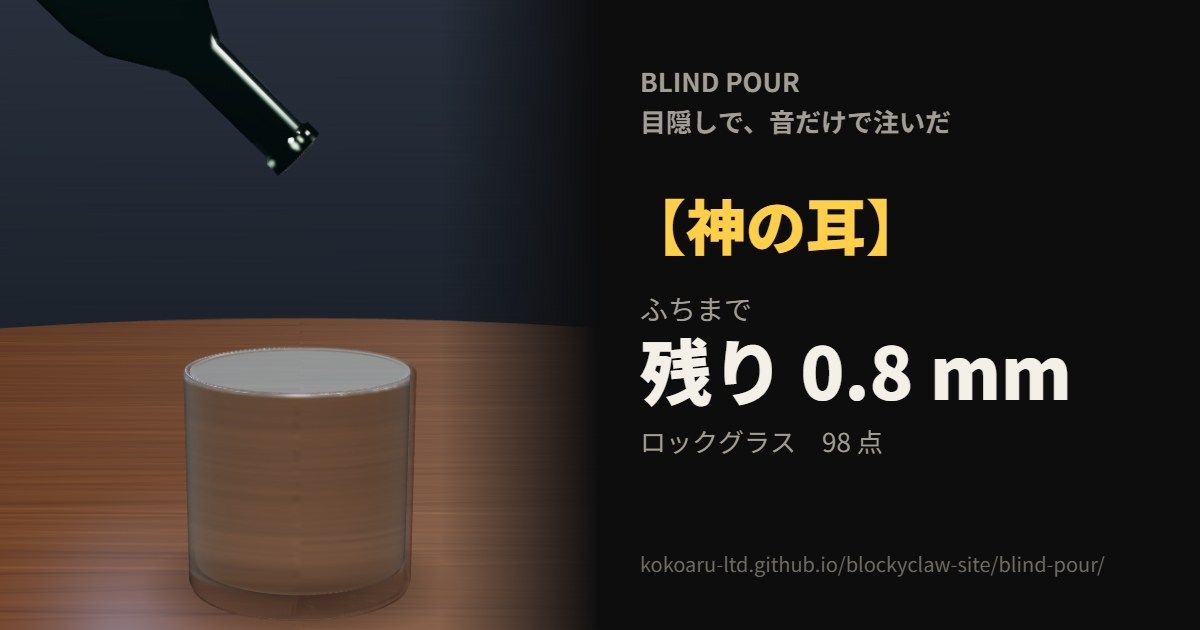
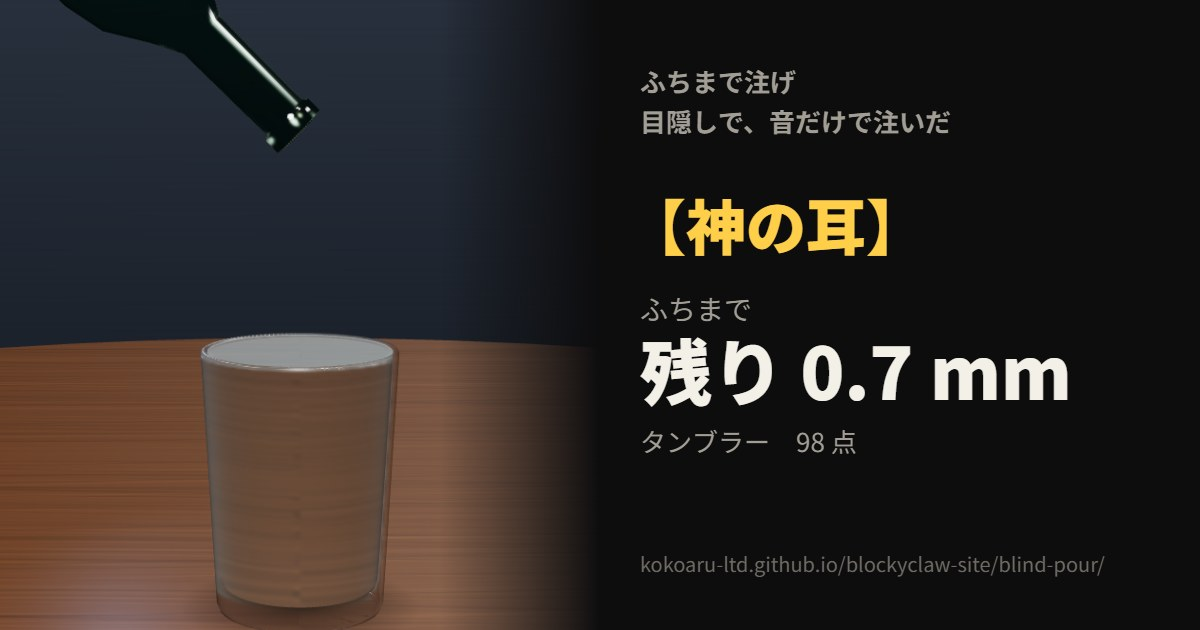
Rename BLIND POUR to ふちまで注げ (title, share text, hashtag, result image, thumbnail)

diff --git a/blind-pour/index.html b/blind-pour/index.html
@@ -3,9 +3,9 @@
 <head>
 <meta charset="utf-8">
 <meta name="viewport" content="width=device-width, initial-scale=1">
-<title>BLIND POUR | BLOCKYCLAW</title>
+<title>ふちまで注げ | BLOCKYCLAW</title>
 <meta name="description" content="目隠しで注げ。音だけを頼りに、グラスのふちぎりぎりを狙う。">
-<meta property="og:title" content="BLIND POUR">
+<meta property="og:title" content="ふちまで注げ">
 <meta property="og:description" content="目隠しで注げ。音だけを頼りに、グラスのふちぎりぎりを狙う。">
 <meta property="og:image" content="https://kokoaru-ltd.github.io/blockyclaw-site/thumbs/blind-pour.jpg">
 <meta name="twitter:card" content="summary_large_image">
@@ -57,7 +57,7 @@
 <body>
 <div id="hud">
   <div class="card">
-    <h1>BLIND POUR</h1>
+    <h1>ふちまで注げ</h1>
     <div class="sub">長押しで注ぐ。押している間は目隠し。<br>音だけで、ふちぎりぎりを狙え。🎧推奨</div>
     <label><input type="checkbox" id="practice"> 練習モード（目隠しなし）</label>
     <a class="home" href="../">← BLOCKYCLAW</a>
@@ -457,7 +457,7 @@ function rankOf(mm) {
 function shareText() {
   const r = lastResult;
   const how = r.practice ? '練習モードで注いだ結果' : '目隠しで、音だけで注いだ結果';
-  return `🥃 BLIND POUR\n${how}…\n【${r.rank}】${r.sub} ${r.main}（${r.glass}）\n\nあなたの耳は何mm？🎧\n#BLINDPOUR`;
+  return `🥃 ふちまで注げ\n${how}…\n【${r.rank}】${r.sub} ${r.main}（${r.glass}）\n\nあなたの耳は何mm？🎧\n#ふちまで注げ`;
 }
 function cardCanvas() {
   const W = 1200, H = 630, c = document.createElement('canvas'); c.width = W; c.height = H;
@@ -474,7 +474,7 @@ function cardCanvas() {
     g.fillStyle = fade; g.fillRect(440, 0, 160, H);
   }
   const r = lastResult, x = 640, font = '"Noto Sans JP","Hiragino Sans","Yu Gothic UI",system-ui,sans-serif';
-  g.fillStyle = '#a29e95'; g.font = `700 26px ${font}`; g.fillText('BLIND POUR', x, 92);
+  g.fillStyle = '#a29e95'; g.font = `700 26px ${font}`; g.fillText('ふちまで注げ', x, 92);
   g.fillText(r.practice ? '練習モード' : '目隠しで、音だけで注いだ', x, 132);
   g.fillStyle = '#ffcf4a'; g.font = `900 ${r.rank.length > 6 ? 46 : 60}px ${font}`; g.fillText(`【${r.rank}】`, x - 14, 250);
   g.fillStyle = '#a29e95'; g.font = `400 28px ${font}`; g.fillText(r.sub, x, 320);

diff --git a/index.html b/index.html
@@ -73,7 +73,7 @@ footer a{color:var(--ink)}
     <a class="g" href="blind-pour/">
       <img src="thumbs/blind-pour.jpg" alt="" loading="lazy">
       <div>
-        <h2><small data-ja="目隠し注ぎ" data-en="BLIND POURING">目隠し注ぎ</small>BLIND POUR</h2>
+        <h2><small data-ja="目隠し注ぎ" data-en="BLIND POURING">目隠し注ぎ</small>ふちまで注げ</h2>
         <p class="d" data-ja="押している間は目隠し。トクトクという音だけを頼りに、グラスのふちぎりぎりまで注ぐ。結果はXでシェア。" data-en="You're blindfolded while you pour. Listen to the glugs and stop right at the brim. Share your result on X. Japanese only.">押している間は目隠し。トクトクという音だけを頼りに、グラスのふちぎりぎりまで注ぐ。結果はXでシェア。</p>
         <div class="tags"><span class="new">NEW</span><span data-ja="スマホ" data-en="Mobile">スマホ</span><span>PC</span><span data-ja="🎧推奨" data-en="🎧 Headphones">🎧推奨</span><span>日本語</span></div>
         <span class="play" data-ja="注ぐ" data-en="Play">注ぐ</span>

diff --git a/README.md b/README.md
@@ -8,7 +8,7 @@
 | HADAL BLUE | 深海ダイブ（WebGPU、PC の Chrome / Edge 推奨） |
 | VOID SHIFT | FPS（ボット戦） |
 | 毒うさぎ命名ゲーム | 毒うさぎに名前をつける。名前の音に合わせて踊る |
-| BLIND POUR | 目隠しで、注ぐ音だけを頼りにグラスのふちぎりぎりまで注ぐ。結果を X でシェア |
+| ふちまで注げ | 目隠しで、注ぐ音だけを頼りにグラスのふちぎりぎりまで注ぐ。結果を X でシェア |
 
 魚・料理の写真は AI で作ったもので、実在の個体や料理ではありません。
 HADAL BLUE は Abyssal Garden（Noniv、MIT）をもとにしています。
